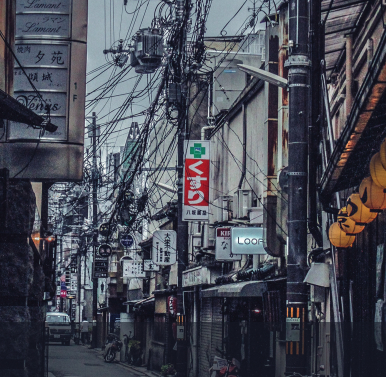
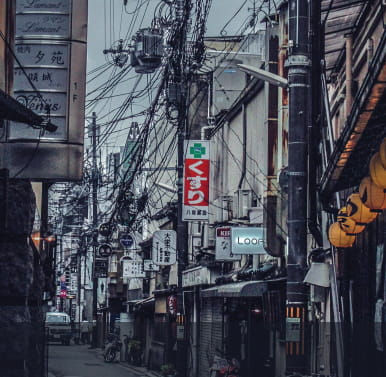
Updated images

diff --git a/index.html b/index.html
@@ -136,7 +136,7 @@
           <div class="places_cards">
 
             <div class="places_card places_card_size-lg">
-              <img src="img/place-1-min.jpg" alt="Mount Fuji" class="places_card-pic places_card-pic_size-lg">
+              <img src="img/place-1.jpg" alt="Mount Fuji" class="places_card-pic places_card-pic_size-lg">
               <h3 class="places_card-title">
                 Mount Fuji
               </h3>
@@ -144,7 +144,7 @@
             </div>
 
             <div class="places_card places_card_size-lg">
-              <img src="img/place-2-min.jpg" alt="Kyoto" class="places_card-pic places_card-pic_size-lg">
+              <img src="img/place-2.jpg" alt="Kyoto" class="places_card-pic places_card-pic_size-lg">
               <h3 class="places_card-title">
                 Kyoto
               </h3>
@@ -152,7 +152,7 @@
             </div>
 
             <div class="places_card places_card_size-sm">
-              <img src="img/place-3-min.jpg" alt="Tokyo" class="places_card-pic places_card-pic_size-sm">
+              <img src="img/place-3.jpg" alt="Tokyo" class="places_card-pic places_card-pic_size-sm">
               <h3 class="places_card-title">
                 Tokyo
               </h3>
@@ -160,7 +160,7 @@
             </div>
 
             <div class="places_card places_card_size-sm">
-              <img src="img/place-4-min.jpg" alt="Niigata" class="places_card-pic places_card-pic_size-sm">
+              <img src="img/place-4.jpg" alt="Niigata" class="places_card-pic places_card-pic_size-sm">
               <h3 class="places_card-title">
                 Niigata
               </h3>
@@ -168,7 +168,7 @@
             </div>
 
             <div class="places_card places_card_size-sm">
-              <img src="img/place-5-min.jpg" alt="Sapporo" class="places_card-pic places_card-pic_size-sm">
+              <img src="img/place-5.jpg" alt="Sapporo" class="places_card-pic places_card-pic_size-sm">
               <h3 class="places_card-title">
                 Sapporo
               </h3>
@@ -185,7 +185,7 @@
         <div class="wrapper-full">
           <div class="tours_tour tour">
             <div class="tour_pic">
-              <img src="img/tour-1-min.jpg" alt="Prefecture in Focus: Tottori" class="tour_thumb">
+              <img src="img/tour-1.jpg" alt="Prefecture in Focus: Tottori" class="tour_thumb">
             </div>
             <div class="tour_info">
               <h3 class="tour_title">
@@ -213,7 +213,7 @@
               <a href="#" class="tour_more btn-arrow">view neighbourhood</a>
             </div>
             <div class="tour_pic tour_pic_mob-first">
-              <img src="img/tour-2-min.jpg" alt="Featured Neighborhood: Kyoto’s Arashiyama" class="tour_thumb">
+              <img src="img/tour-2.jpg" alt="Featured Neighborhood: Kyoto’s Arashiyama" class="tour_thumb">
             </div>
           </div>
         </div>
@@ -233,7 +233,7 @@
 
             <div class="top_card">
               <div class="top_card-pic">
-                <img src="img/top-1-min.jpg" alt="NAGOYA" class="top_card-thumb">
+                <img src="img/top-1.jpg" alt="NAGOYA" class="top_card-thumb">
                 <div class="top_card-stats">
                   <h3 class="top_card-title">
                     NAGOYA
@@ -262,7 +262,7 @@
 
             <div class="top_card">
               <div class="top_card-pic">
-                <img src="img/top-2-min.jpg" alt="Niigata" class="top_card-thumb">
+                <img src="img/top-2.jpg" alt="Niigata" class="top_card-thumb">
                 <div class="top_card-stats">
                   <h3 class="top_card-title">
                     NIIGATA
@@ -291,7 +291,7 @@
 
             <div class="top_card">
               <div class="top_card-pic">
-                <img src="img/top-3-min.jpg" alt="Osaka" class="top_card-thumb">
+                <img src="img/top-3.jpg" alt="Osaka" class="top_card-thumb">
                 <div class="top_card-stats">
                   <h3 class="top_card-title">
                     Osaka
@@ -320,7 +320,7 @@
 
             <div class="top_card">
               <div class="top_card-pic">
-                <img src="img/top-4-min.jpg" alt="Saitama" class="top_card-thumb">
+                <img src="img/top-4.jpg" alt="Saitama" class="top_card-thumb">
                 <div class="top_card-stats">
                   <h3 class="top_card-title">
                     Saitama
@@ -349,7 +349,7 @@
 
             <div class="top_card">
               <div class="top_card-pic">
-                <img src="img/top-5-min.jpg" alt="Ueno" class="top_card-thumb">
+                <img src="img/top-5.jpg" alt="Ueno" class="top_card-thumb">
                 <div class="top_card-stats">
                   <h3 class="top_card-title">
                     Ueno
@@ -378,7 +378,7 @@
 
             <div class="top_card">
               <div class="top_card-pic">
-                <img src="img/top-6-min.jpg" alt="Shibuya" class="top_card-thumb">
+                <img src="img/top-6.jpg" alt="Shibuya" class="top_card-thumb">
                 <div class="top_card-stats">
                   <h3 class="top_card-title">
                     Shibuya
